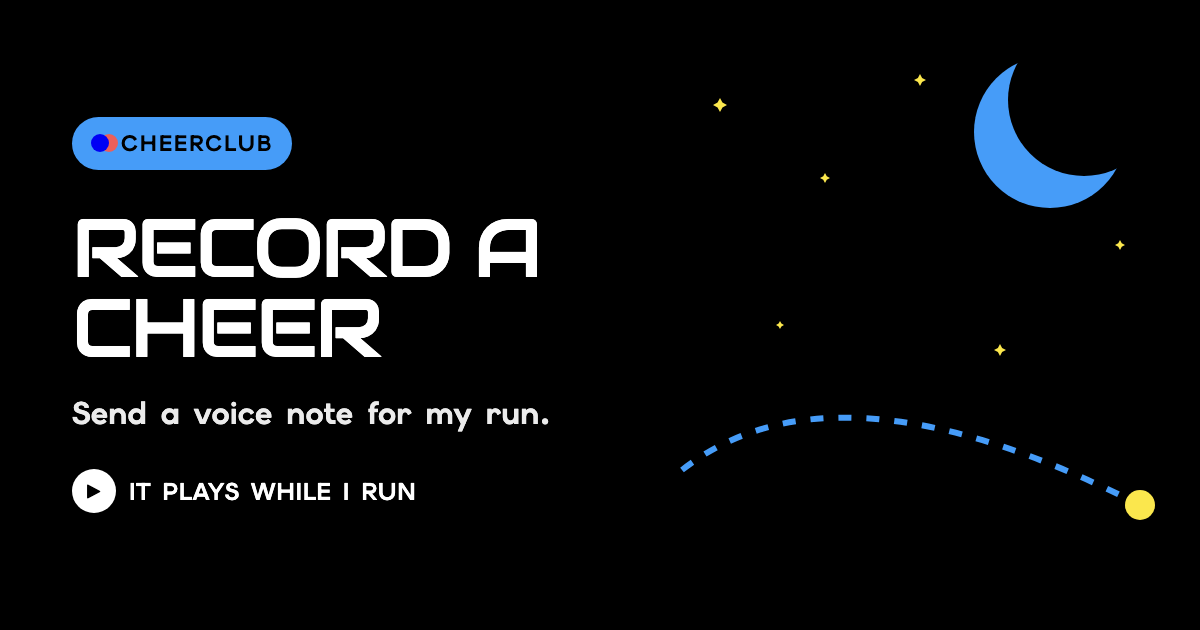
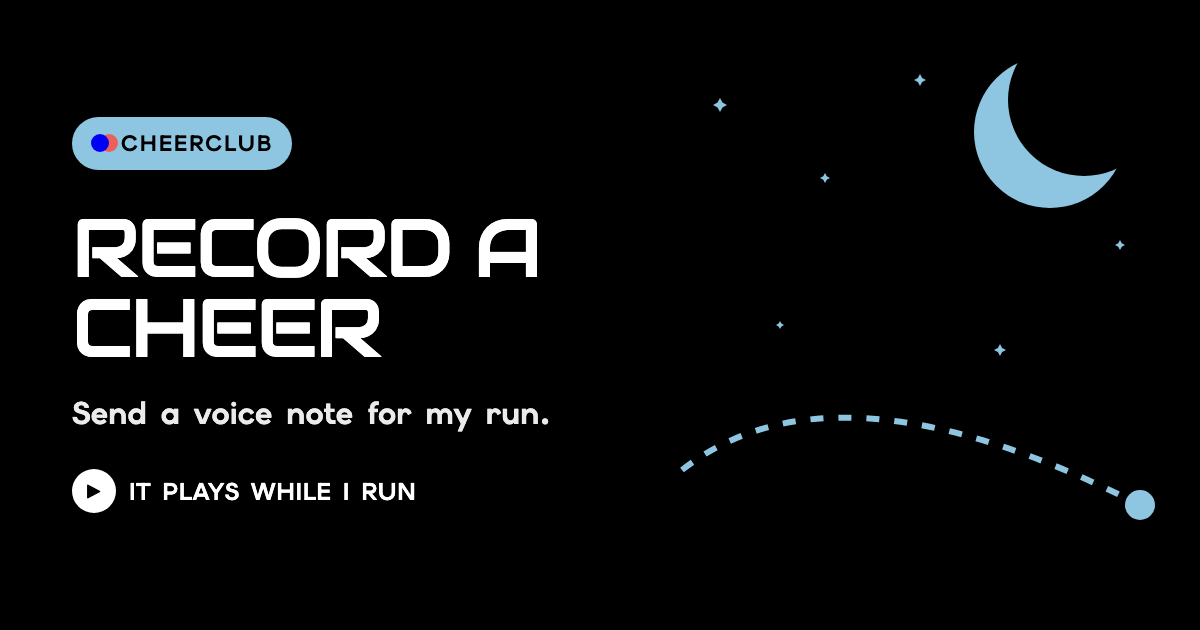
Use run theme colors in link previews

diff --git a/share/midnight.html b/share/midnight.html
@@ -8,11 +8,11 @@
   <meta property="og:title" content="Cheer for my run" />
   <meta property="og:description" content="Send a voice note — it plays in my ears while I run" />
   <meta property="og:type" content="website" />
-  <meta property="og:image" content="https://cheerclub.app/og/midnight.png?v=4" />
+  <meta property="og:image" content="https://cheerclub.app/og/midnight.png?v=5" />
   <meta property="og:image:width" content="1200" />
   <meta property="og:image:height" content="630" />
   <meta name="twitter:card" content="summary_large_image" />
-  <meta name="twitter:image" content="https://cheerclub.app/og/midnight.png?v=4" />
+  <meta name="twitter:image" content="https://cheerclub.app/og/midnight.png?v=5" />
   <script>
     (function () {
       var token = new URLSearchParams(location.search).get("t");

diff --git a/share/confetti.html b/share/confetti.html
@@ -8,11 +8,11 @@
   <meta property="og:title" content="Cheer for my run" />
   <meta property="og:description" content="Send a voice note — it plays in my ears while I run" />
   <meta property="og:type" content="website" />
-  <meta property="og:image" content="https://cheerclub.app/og/raceday.png?v=4" />
+  <meta property="og:image" content="https://cheerclub.app/og/raceday.png?v=5" />
   <meta property="og:image:width" content="1200" />
   <meta property="og:image:height" content="630" />
   <meta name="twitter:card" content="summary_large_image" />
-  <meta name="twitter:image" content="https://cheerclub.app/og/raceday.png?v=4" />
+  <meta name="twitter:image" content="https://cheerclub.app/og/raceday.png?v=5" />
   <script>
     (function () {
       var token = new URLSearchParams(location.search).get("t");

diff --git a/share/marathon.html b/share/marathon.html
@@ -8,11 +8,11 @@
   <meta property="og:title" content="Cheer for my run" />
   <meta property="og:description" content="Send a voice note — it plays in my ears while I run" />
   <meta property="og:type" content="website" />
-  <meta property="og:image" content="https://cheerclub.app/og/raceday.png?v=4" />
+  <meta property="og:image" content="https://cheerclub.app/og/raceday.png?v=5" />
   <meta property="og:image:width" content="1200" />
   <meta property="og:image:height" content="630" />
   <meta name="twitter:card" content="summary_large_image" />
-  <meta name="twitter:image" content="https://cheerclub.app/og/raceday.png?v=4" />
+  <meta name="twitter:image" content="https://cheerclub.app/og/raceday.png?v=5" />
   <script>
     (function () {
       var token = new URLSearchParams(location.search).get("t");

diff --git a/share/raceday.html b/share/raceday.html
@@ -8,11 +8,11 @@
   <meta property="og:title" content="Cheer for my run" />
   <meta property="og:description" content="Send a voice note — it plays in my ears while I run" />
   <meta property="og:type" content="website" />
-  <meta property="og:image" content="https://cheerclub.app/og/raceday.png?v=4" />
+  <meta property="og:image" content="https://cheerclub.app/og/raceday.png?v=5" />
   <meta property="og:image:width" content="1200" />
   <meta property="og:image:height" content="630" />
   <meta name="twitter:card" content="summary_large_image" />
-  <meta name="twitter:image" content="https://cheerclub.app/og/raceday.png?v=4" />
+  <meta name="twitter:image" content="https://cheerclub.app/og/raceday.png?v=5" />
   <script>
     (function () {
       var token = new URLSearchParams(location.search).get("t");

diff --git a/share/sunset.html b/share/sunset.html
@@ -8,11 +8,11 @@
   <meta property="og:title" content="Cheer for my run" />
   <meta property="og:description" content="Send a voice note — it plays in my ears while I run" />
   <meta property="og:type" content="website" />
-  <meta property="og:image" content="https://cheerclub.app/og/raceday.png?v=4" />
+  <meta property="og:image" content="https://cheerclub.app/og/raceday.png?v=5" />
   <meta property="og:image:width" content="1200" />
   <meta property="og:image:height" content="630" />
   <meta name="twitter:card" content="summary_large_image" />
-  <meta name="twitter:image" content="https://cheerclub.app/og/raceday.png?v=4" />
+  <meta name="twitter:image" content="https://cheerclub.app/og/raceday.png?v=5" />
   <script>
     (function () {
       var token = new URLSearchParams(location.search).get("t");

diff --git a/share/tempo.html b/share/tempo.html
@@ -8,11 +8,11 @@
   <meta property="og:title" content="Cheer for my run" />
   <meta property="og:description" content="Send a voice note — it plays in my ears while I run" />
   <meta property="og:type" content="website" />
-  <meta property="og:image" content="https://cheerclub.app/og/track.png?v=4" />
+  <meta property="og:image" content="https://cheerclub.app/og/track.png?v=5" />
   <meta property="og:image:width" content="1200" />
   <meta property="og:image:height" content="630" />
   <meta name="twitter:card" content="summary_large_image" />
-  <meta name="twitter:image" content="https://cheerclub.app/og/track.png?v=4" />
+  <meta name="twitter:image" content="https://cheerclub.app/og/track.png?v=5" />
   <script>
     (function () {
       var token = new URLSearchParams(location.search).get("t");

diff --git a/share/track.html b/share/track.html
@@ -8,11 +8,11 @@
   <meta property="og:title" content="Cheer for my run" />
   <meta property="og:description" content="Send a voice note — it plays in my ears while I run" />
   <meta property="og:type" content="website" />
-  <meta property="og:image" content="https://cheerclub.app/og/track.png?v=4" />
+  <meta property="og:image" content="https://cheerclub.app/og/track.png?v=5" />
   <meta property="og:image:width" content="1200" />
   <meta property="og:image:height" content="630" />
   <meta name="twitter:card" content="summary_large_image" />
-  <meta name="twitter:image" content="https://cheerclub.app/og/track.png?v=4" />
+  <meta name="twitter:image" content="https://cheerclub.app/og/track.png?v=5" />
   <script>
     (function () {
       var token = new URLSearchParams(location.search).get("t");

diff --git a/share/city.html b/share/city.html
@@ -8,11 +8,11 @@
   <meta property="og:title" content="Cheer for my run" />
   <meta property="og:description" content="Send a voice note — it plays in my ears while I run" />
   <meta property="og:type" content="website" />
-  <meta property="og:image" content="https://cheerclub.app/og/city.png?v=4" />
+  <meta property="og:image" content="https://cheerclub.app/og/city.png?v=5" />
   <meta property="og:image:width" content="1200" />
   <meta property="og:image:height" content="630" />
   <meta name="twitter:card" content="summary_large_image" />
-  <meta name="twitter:image" content="https://cheerclub.app/og/city.png?v=4" />
+  <meta name="twitter:image" content="https://cheerclub.app/og/city.png?v=5" />
   <script>
     (function () {
       var token = new URLSearchParams(location.search).get("t");

diff --git a/share/dawn.html b/share/dawn.html
@@ -8,11 +8,11 @@
   <meta property="og:title" content="Cheer for my run" />
   <meta property="og:description" content="Send a voice note — it plays in my ears while I run" />
   <meta property="og:type" content="website" />
-  <meta property="og:image" content="https://cheerclub.app/og/city.png?v=4" />
+  <meta property="og:image" content="https://cheerclub.app/og/city.png?v=5" />
   <meta property="og:image:width" content="1200" />
   <meta property="og:image:height" content="630" />
   <meta name="twitter:card" content="summary_large_image" />
-  <meta name="twitter:image" content="https://cheerclub.app/og/city.png?v=4" />
+  <meta name="twitter:image" content="https://cheerclub.app/og/city.png?v=5" />
   <script>
     (function () {
       var token = new URLSearchParams(location.search).get("t");

diff --git a/share/park.html b/share/park.html
@@ -8,11 +8,11 @@
   <meta property="og:title" content="Cheer for my run" />
   <meta property="og:description" content="Send a voice note — it plays in my ears while I run" />
   <meta property="og:type" content="website" />
-  <meta property="og:image" content="https://cheerclub.app/og/park.png?v=4" />
+  <meta property="og:image" content="https://cheerclub.app/og/park.png?v=5" />
   <meta property="og:image:width" content="1200" />
   <meta property="og:image:height" content="630" />
   <meta name="twitter:card" content="summary_large_image" />
-  <meta name="twitter:image" content="https://cheerclub.app/og/park.png?v=4" />
+  <meta name="twitter:image" content="https://cheerclub.app/og/park.png?v=5" />
   <script>
     (function () {
       var token = new URLSearchParams(location.search).get("t");

diff --git a/share/streets.html b/share/streets.html
@@ -8,11 +8,11 @@
   <meta property="og:title" content="Cheer for my run" />
   <meta property="og:description" content="Send a voice note — it plays in my ears while I run" />
   <meta property="og:type" content="website" />
-  <meta property="og:image" content="https://cheerclub.app/og/city.png?v=4" />
+  <meta property="og:image" content="https://cheerclub.app/og/city.png?v=5" />
   <meta property="og:image:width" content="1200" />
   <meta property="og:image:height" content="630" />
   <meta name="twitter:card" content="summary_large_image" />
-  <meta name="twitter:image" content="https://cheerclub.app/og/city.png?v=4" />
+  <meta name="twitter:image" content="https://cheerclub.app/og/city.png?v=5" />
   <script>
     (function () {
       var token = new URLSearchParams(location.search).get("t");

diff --git a/share/trail.html b/share/trail.html
@@ -8,11 +8,11 @@
   <meta property="og:title" content="Cheer for my run" />
   <meta property="og:description" content="Send a voice note — it plays in my ears while I run" />
   <meta property="og:type" content="website" />
-  <meta property="og:image" content="https://cheerclub.app/og/park.png?v=4" />
+  <meta property="og:image" content="https://cheerclub.app/og/park.png?v=5" />
   <meta property="og:image:width" content="1200" />
   <meta property="og:image:height" content="630" />
   <meta name="twitter:card" content="summary_large_image" />
-  <meta name="twitter:image" content="https://cheerclub.app/og/park.png?v=4" />
+  <meta name="twitter:image" content="https://cheerclub.app/og/park.png?v=5" />
   <script>
     (function () {
       var token = new URLSearchParams(location.search).get("t");
